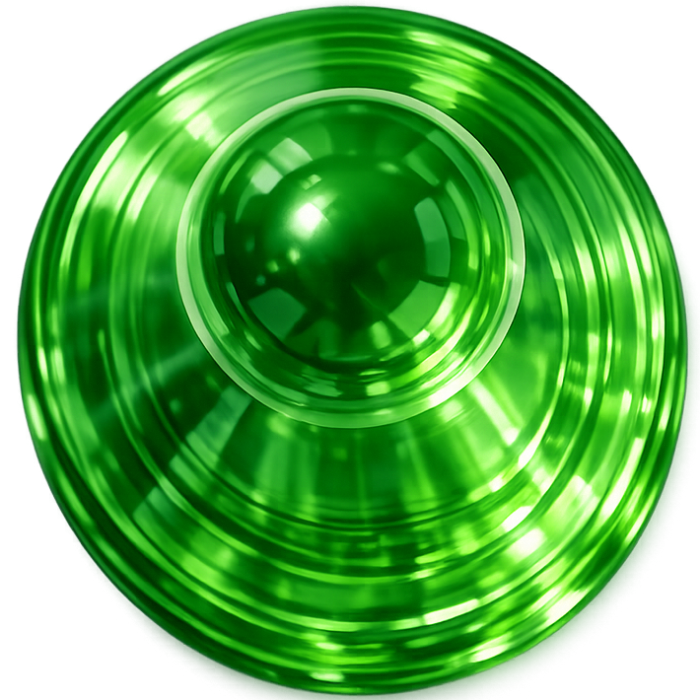
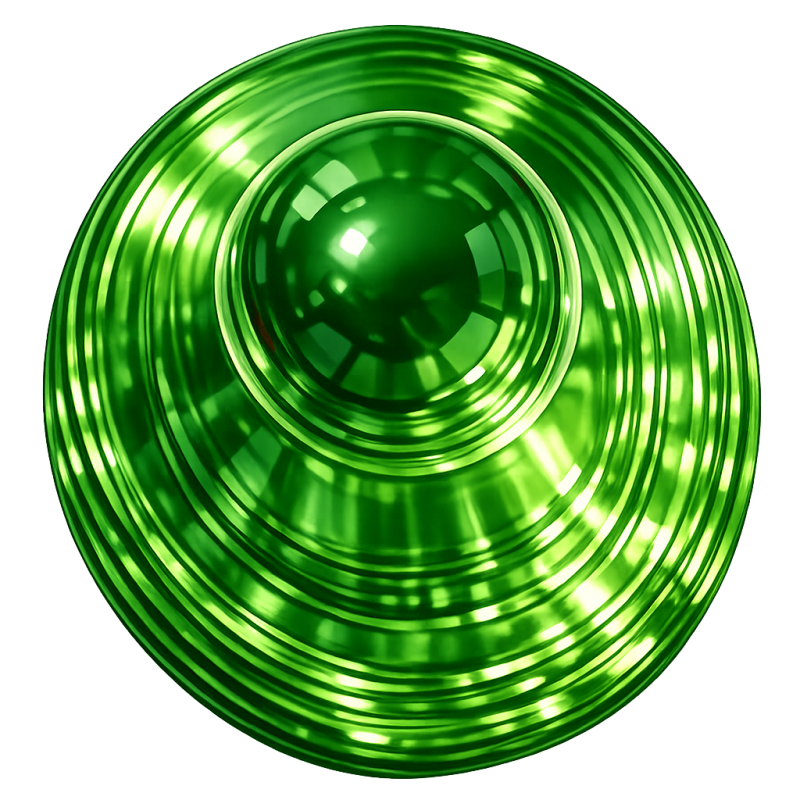
coloured tokens

diff --git a/public/sw.js b/public/sw.js
@@ -21,6 +21,10 @@ const STATIC_ASSETS = [
   "/images/die-6.png",
   "/images/red.png",
   "/images/green.png",
+  "/images/blue.png",
+  "/images/yellow.png",
+  "/images/brown.png",
+  "/images/purple.png",
   "/images/wood.png",
   "/images/frame-wood.png",
   "/icons/icon-192.png",
